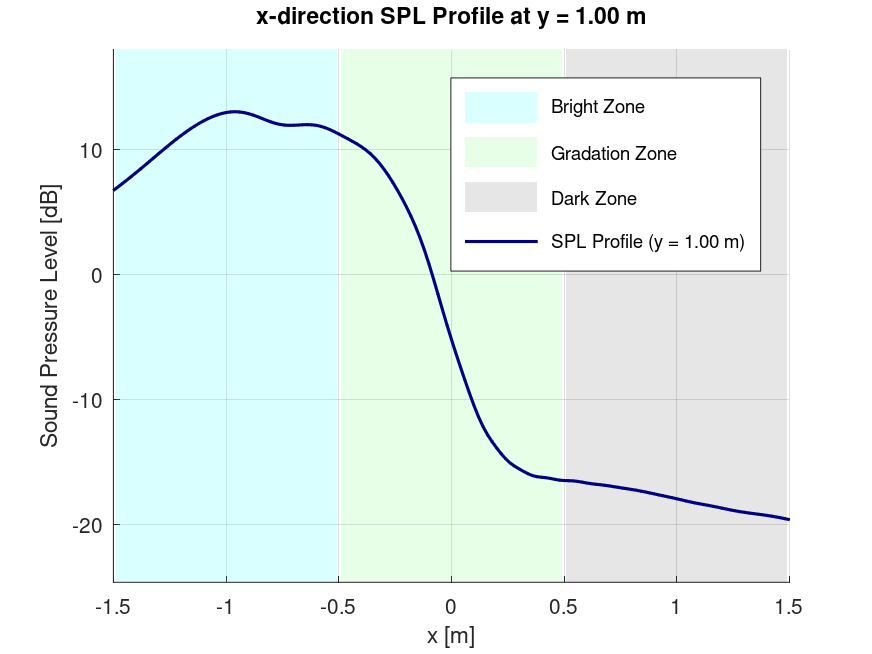
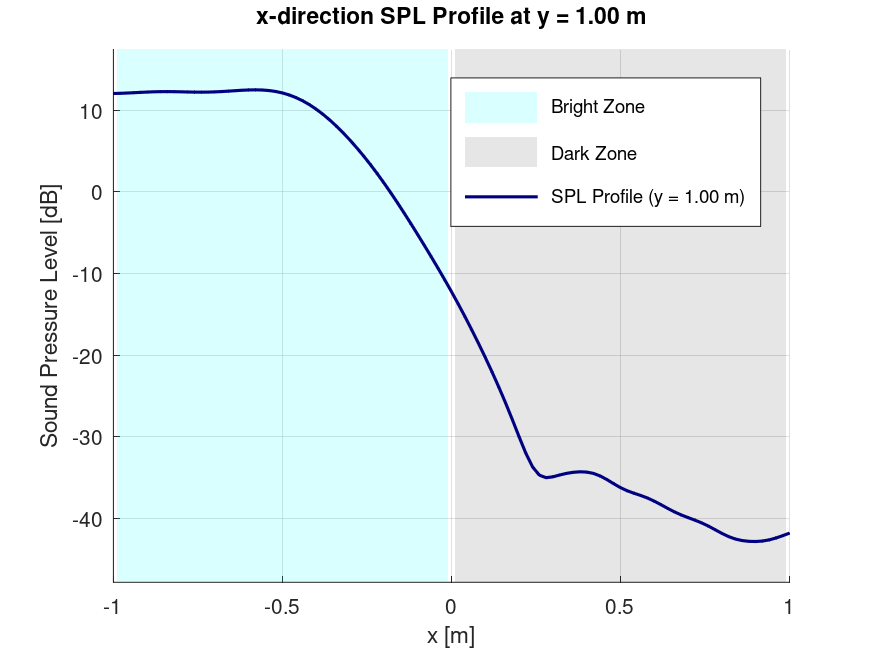
正則値変更

diff --git a/filter_pm.m b/filter_pm.m
@@ -21,7 +21,7 @@ function drv_ls = filter_pm(mic_geo, G, f, ang_wave, amp_src, Nsrc, c, num_bz, n
         % 最大固有値の10^-5倍
         % 行列が悪条件になるのを防ぐ
         %--------------------------------------------------
-        reg_para = 10^(-3) * eigs((g' * g), 1);
+        reg_para = 10^(-5) * eigs((g' * g), 1);
 
         p_des = zeros(n_mic, Nsrc);
         w_vec = ones(n_mic, 1); % 重みベクトルの初期化
@@ -42,7 +42,7 @@ function drv_ls = filter_pm(mic_geo, G, f, ang_wave, amp_src, Nsrc, c, num_bz, n
         dz_idx_start = num_bz + 1;
         for i = dz_idx_start:n_mic
             p_des(i) = 0;
-            w_vec(i) = 15.0;
+            w_vec(i) = 100.0;
         end
 
         % 重み行列 W (対角行列)
